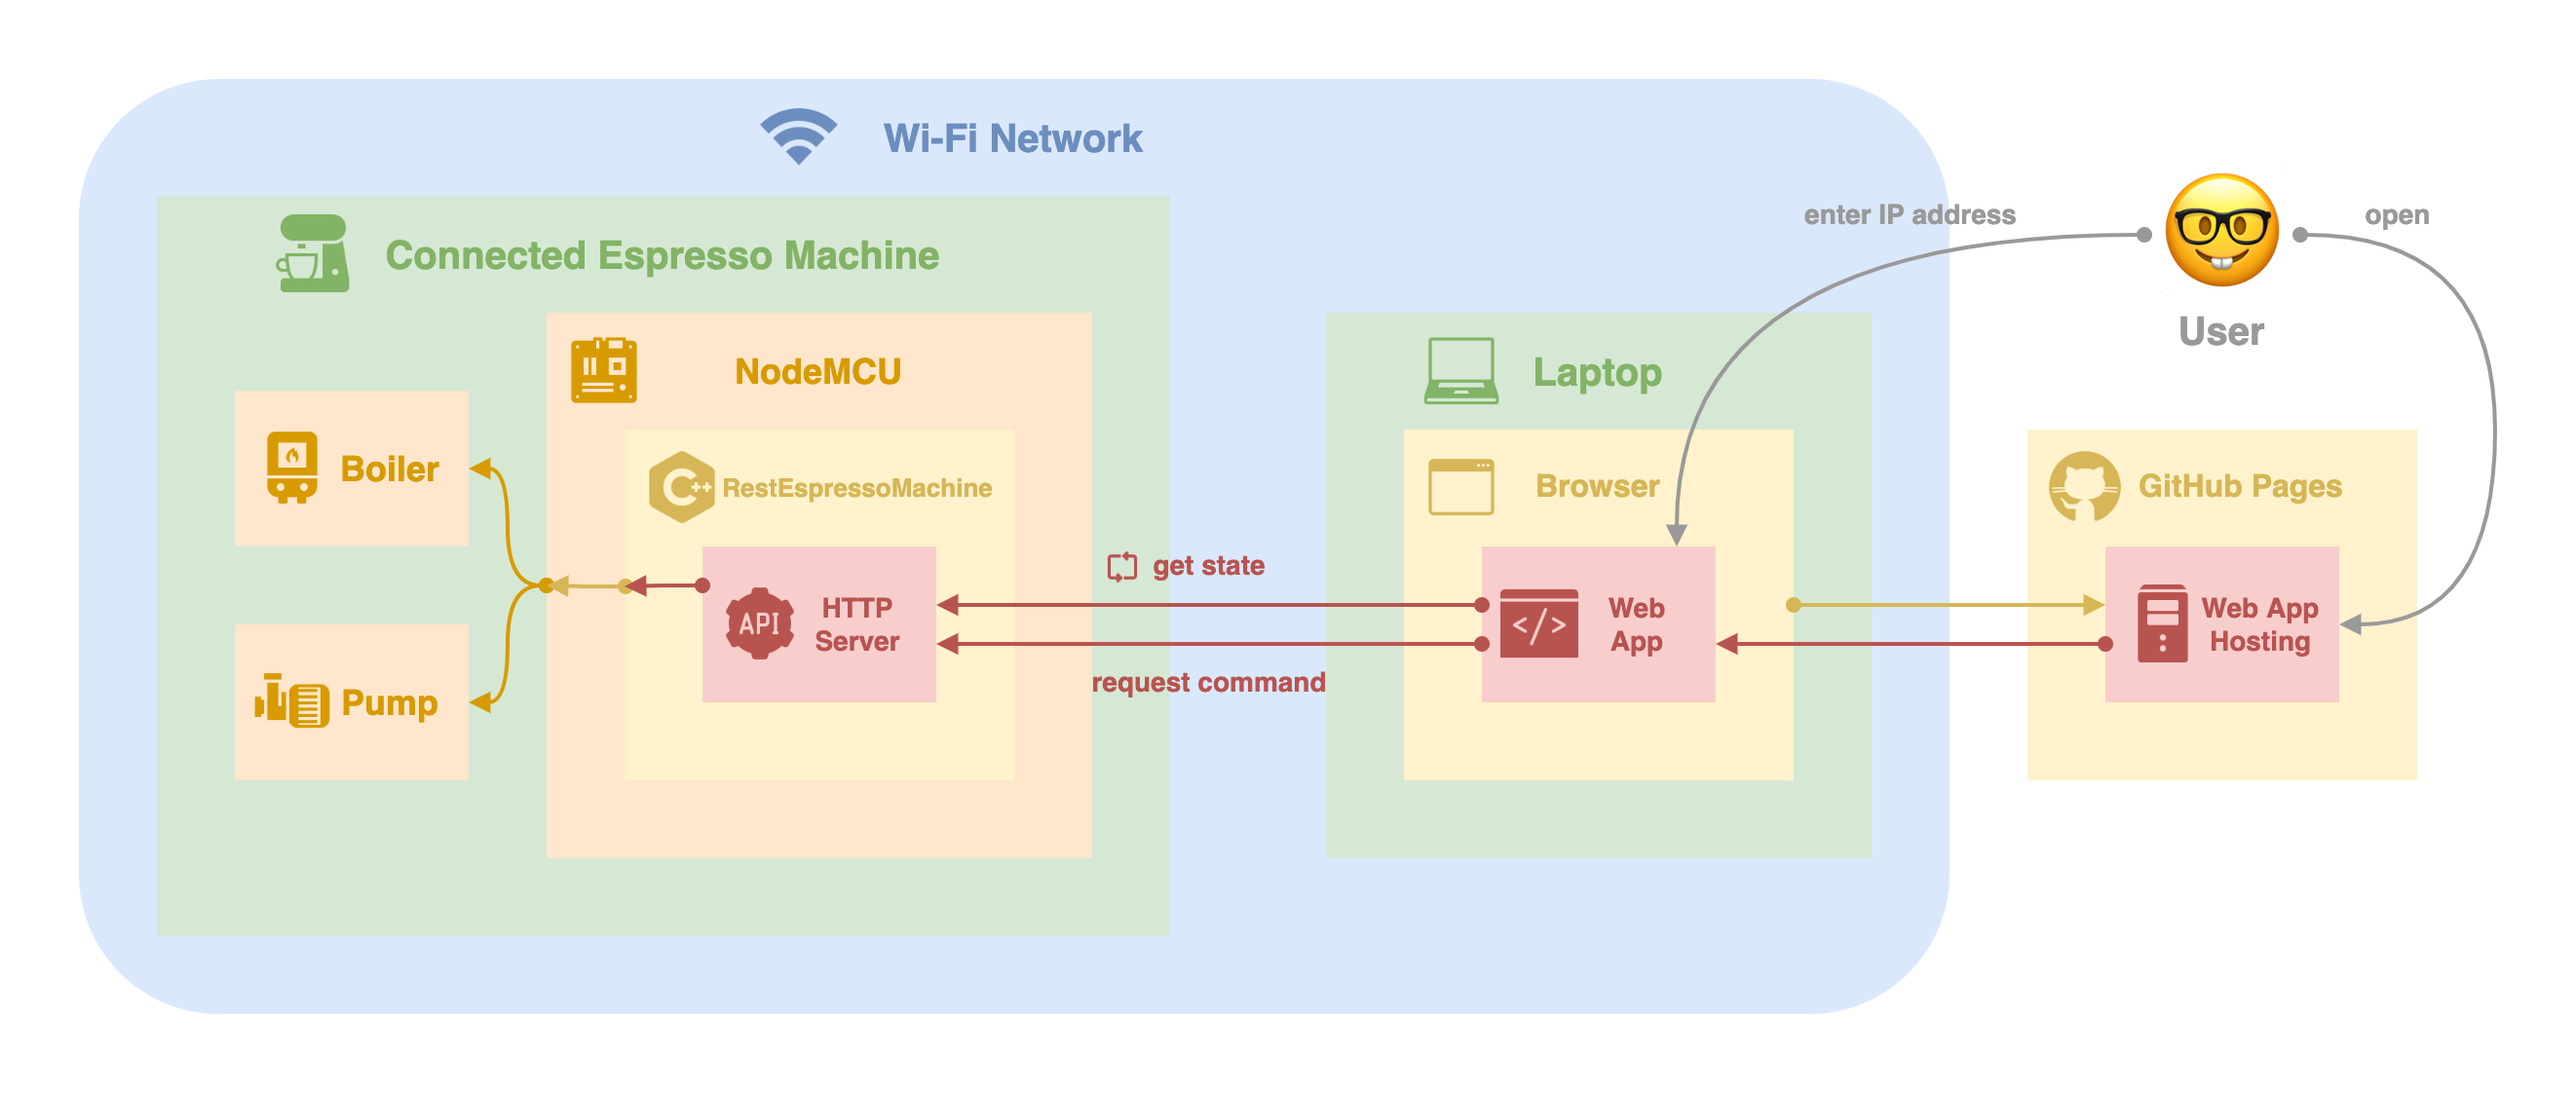
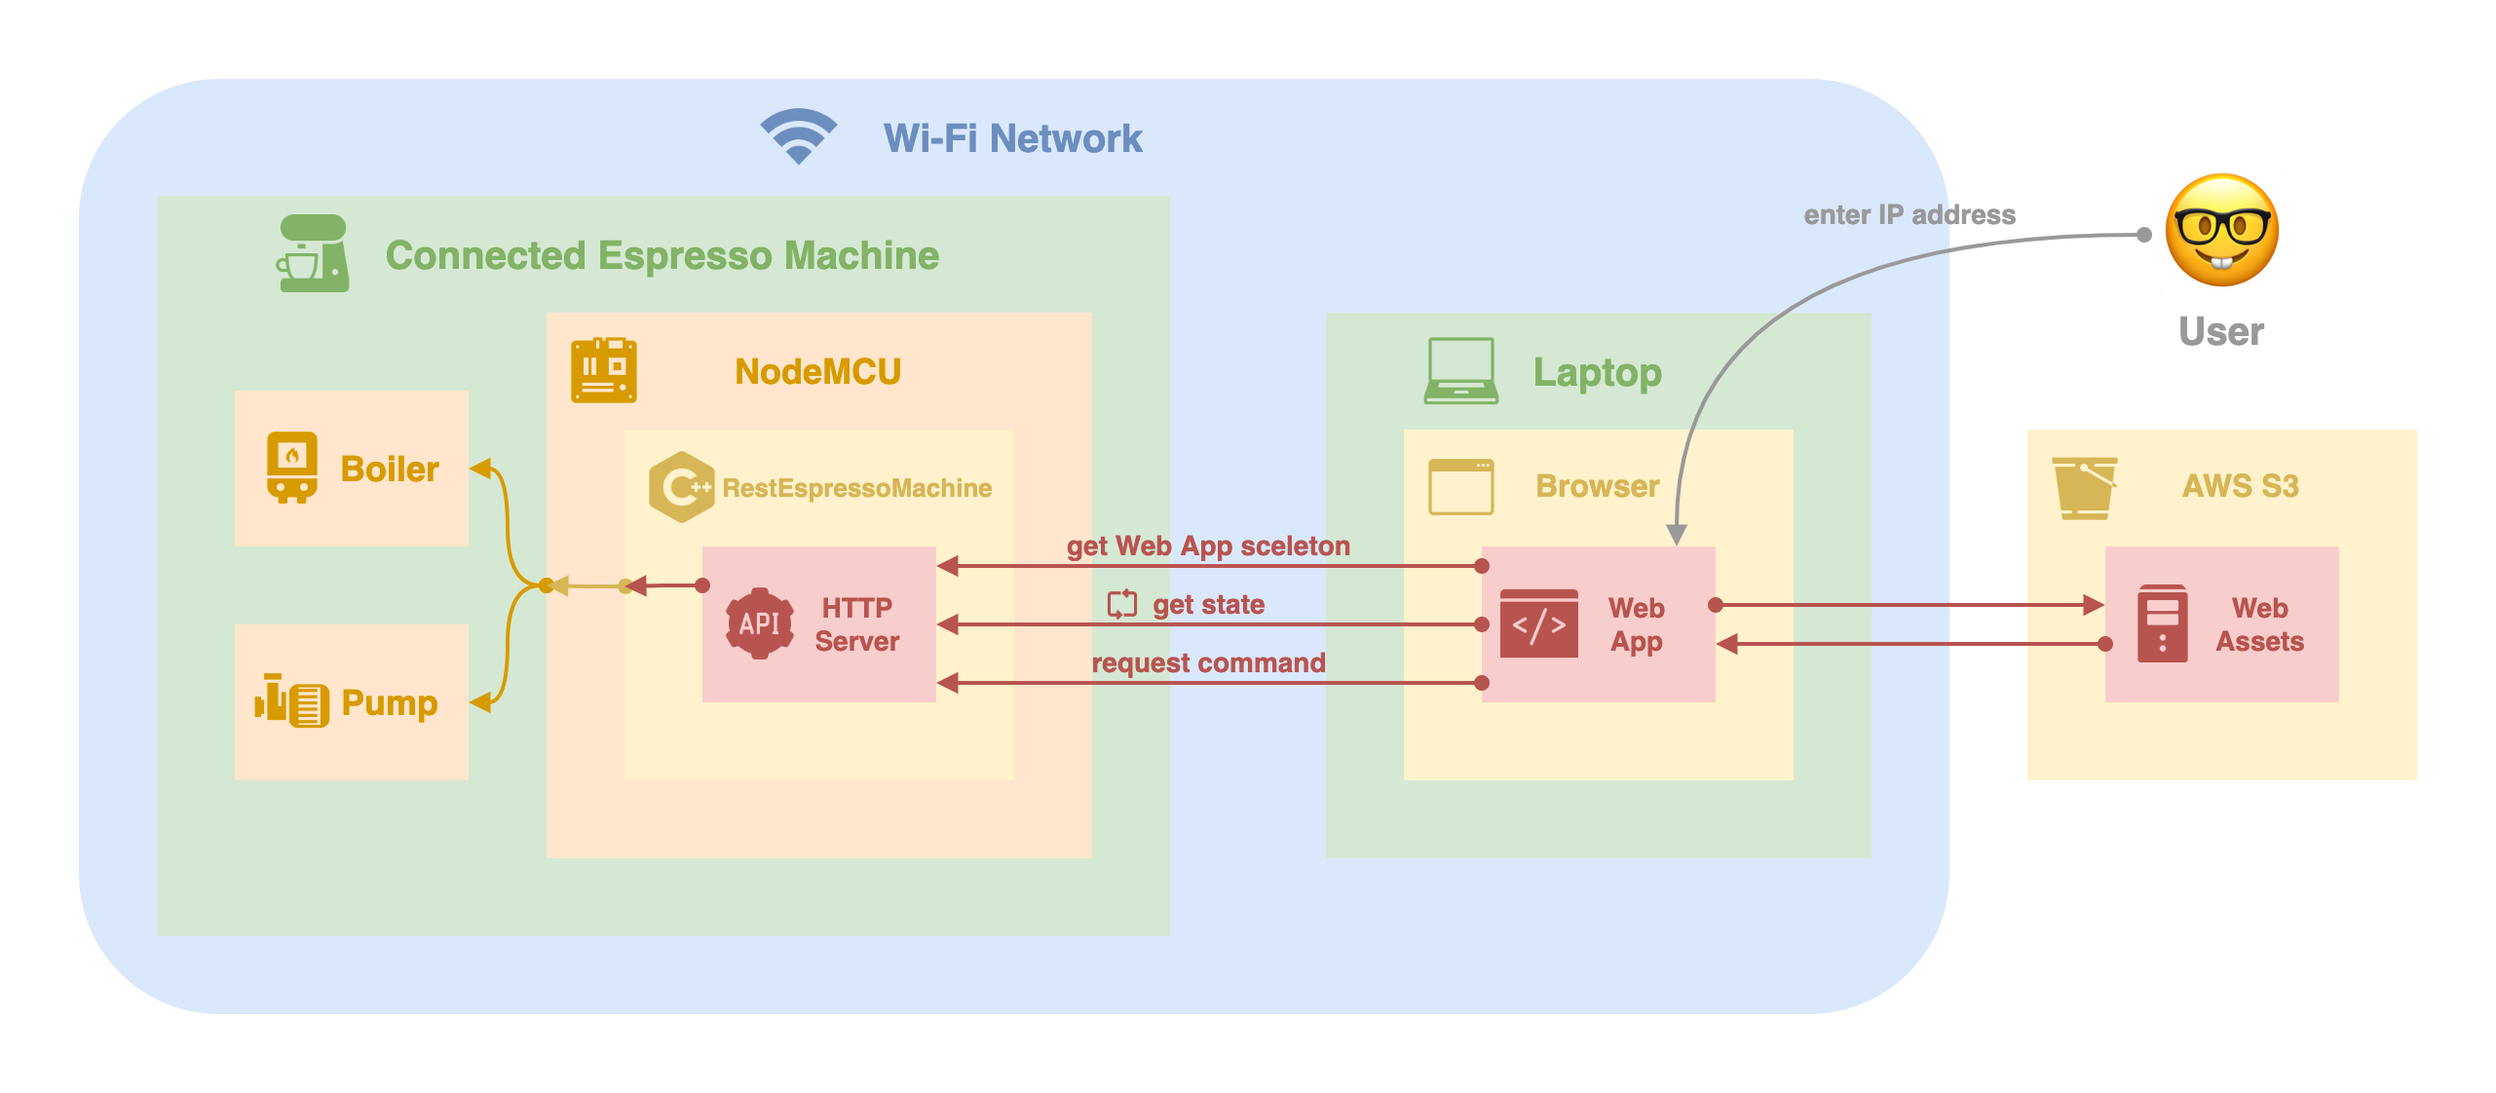
Final updates for v2.0.0

Changed region(s): [[0.0937, 0.0624, 0.968, 0.9358], [0.0937, 0.1872, 0.3747, 0.2807]]

diff --git a/firmware/src/RestEspressoMachine.cpp b/firmware/src/RestEspressoMachine.cpp
@@ -64,7 +64,7 @@ String RestEspressoMachine::commandToString(EspressoMachineCommand command)
     }
 }
 
-// TODO: Optimize.
+// Could be done in a more elegant way :)
 boolean RestEspressoMachine::isValidCommandString(String string)
 {
     return string.equals("off") ||
@@ -81,7 +81,7 @@ boolean RestEspressoMachine::isValidCommandString(String string)
            string.equals("togglePourWater");
 }
 
-// TODO: Optimize.
+// Could be done in a more elegant way :)
 EspressoMachineCommand RestEspressoMachine::stringToCommand(String string)
 {
     // External commands.

diff --git a/README.md b/README.md
@@ -1,5 +1,38 @@
 # Connected Espresso Machine
 
+**Connected Espresso Machine** is a primer on _how to turn "dumb" old coffeemaker/teapot/anything into a smart connected
+device_ with a bit of hardware work and programming. For that, a series of [articles](#articles) was written for you to
+either have fun or implement your own similar project!
+
+During the implementation of embedded projects, I faced different approaches to code firmware, so in the articles, I
+tried to describe _common programming patterns_ that can be accommodated in your hobby projects.
+
+In the current reincarnation, the espresso machine is connected to the home Wi-Fi network and exposes
+**[REST API](#openapi)** that is used by the **Web App** to control the espresso machine accessible from the same
+network.
+
+**[Web Assets](#web-assets)** (JavaScript and CSS) are served from the **AWS S3 Bucket** and can be updated at any time
+without the update of the firmware. While the firmware itself can be flashed _Over-the-Air_ from **PlatformIO IDE**.
+
+While **NodeMCU** is used as a single microcontroller, the implementation is not specific to it and actually, **Arduino
+Uno** was used initially to control the AC components of the espresso machine.
+
+## Contents
+
+1. [Articles](#articles)
+2. [Architecture](#architecture)
+    1. [REST](#rest)
+3. [Hardware](#hardware)
+    1. [Controller Board Scheme](#controller-board-scheme)
+    2. [AC Scheme](#ac-scheme)
+4. [Firmware](#firmware)
+    1. [Class Diagram](#class-diagram)
+5. [OpenAPI](#openapi)
+6. [Web Assets](#web-assets)
+    1. [Test Firmware](#test-firmware)
+7. [Reference](#reference)
+8. [Gists](#gists)
+
 ## Articles
 
 Series: [Medium](https://loginov-rocks.medium.com/list/diy-connected-espresso-machine-c9576e4bc43a)
@@ -13,7 +46,7 @@ Series: [Medium](https://loginov-rocks.medium.com/list/diy-connected-espresso-ma
 6. Over-the-Air Updates:
    [Medium](https://loginov-rocks.medium.com/diy-connected-espresso-machine-over-the-air-updates-part-6-76ae32736f73)
 7. Assembly: [Medium](https://loginov-rocks.medium.com/diy-connected-espresso-machine-assembly-part-7-7b590ef343fd)
-8. REST and Web App: Medium
+8. REST and Web App: Medium...
 
 ## Architecture
 
@@ -23,9 +56,13 @@ Series: [Medium](https://loginov-rocks.medium.com/list/diy-connected-espresso-ma
 
 ## Hardware
 
-### Scheme
+### Controller Board Scheme
 
-![Hardware Scheme](https://raw.githubusercontent.com/loginov-rocks/Connected-Espresso-Machine/main/docs/Hardware/Schemes/5-Final-NodeMCU.png)
+![Controller Board Scheme](https://raw.githubusercontent.com/loginov-rocks/Connected-Espresso-Machine/main/docs/Hardware/Schemes/5-Final-NodeMCU.png)
+
+### AC Scheme
+
+![AC Scheme](https://raw.githubusercontent.com/loginov-rocks/Connected-Espresso-Machine/main/docs/Hardware/Schemes/AC-Scheme.png)
 
 ## Firmware
 

diff --git a/docs/Software/AWS.md b/docs/Software/AWS.md
@@ -14,7 +14,7 @@ section) and configure policies as below.
       "Effect": "Allow",
       "Principal": "*",
       "Action": "s3:GetObject",
-      "Resource": "arn:aws:s3:::{BUCKET_NAME}/*"
+      "Resource": "arn:aws:s3:::${BUCKET_NAME}/*"
     }
   ]
 }
@@ -55,8 +55,8 @@ User is only needed to support CD done with GitHub Actions.
         "s3:DeleteObject"
       ],
       "Resource": [
-        "arn:aws:s3:::{BUCKET_NAME}/*",
-        "arn:aws:s3:::{BUCKET_NAME}"
+        "arn:aws:s3:::${BUCKET_NAME}/*",
+        "arn:aws:s3:::${BUCKET_NAME}"
       ]
     }
   ]
